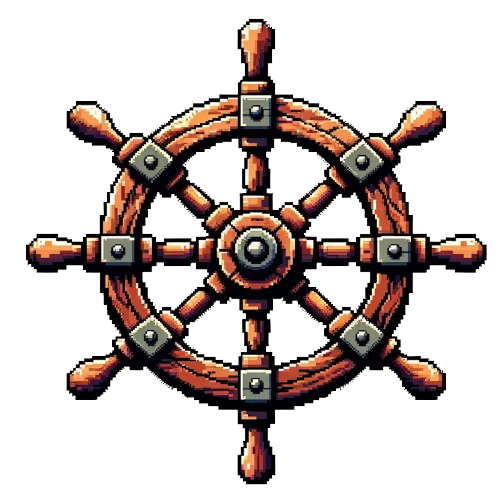
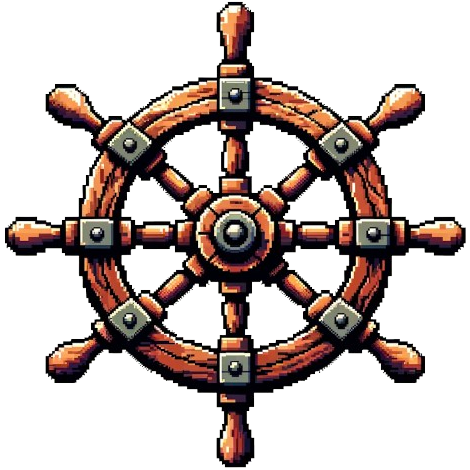
Large main menu UI update, viewport size updated

diff --git a/src/scene/MainMenuScene.ts b/src/scene/MainMenuScene.ts
@@ -42,30 +42,56 @@ export class MainMenuScene extends Phaser.Scene {
 
         //create images (z order)
         //this.add.image(this.game.renderer.width / 2, this.game.renderer.height * 0.20, CST.IMAGE.LOGO).setDepth(1);
-        this.add.image(0, 0, CST.IMAGE.TITLE).setOrigin(0).setDepth(0).setScale(0.55);
+        this.add.image(0, 0, CST.IMAGE.TITLE).setOrigin(0).setDepth(0).setScale(0.60); // 600 x 600
 
         graphics.fillStyle(0x000000, 1); // The '1' is the alpha for full opacity
         graphics.fillRect(0, 512, 512, 200); // Fill a rectangle from (0, 512) to (512, 612)
 
 
-        let playButton = this.add.image(470, 50, CST.IMAGE.PLAY).setDepth(1).setScale(0.4);
-        let optionsButton = this.add.image(470, 150, CST.IMAGE.OPTIONS).setDepth(1).setScale(0.4);
-        let quitButton = this.add.image(470, 250, CST.IMAGE.QUIT).setDepth(1).setScale(0.4);
-        let hoverImg = this.add.image(100, 100, CST.IMAGE.HOVER).setScale(0.15).setVisible(false);
+        let playButton = this.add.image(700, 50, CST.IMAGE.PLAY).setDepth(1).setScale(0.55);
+        let optionsButton = this.add.image(700, 150, CST.IMAGE.OPTIONS).setDepth(1).setScale(0.55);
+        let quitButton = this.add.image(700, 250, CST.IMAGE.QUIT).setDepth(1).setScale(0.55);
+        let hoverImg = this.add.image(100, 100, CST.IMAGE.HOVER).setScale(0.20).setVisible(false);
 
         //let board = this.add.image(180, 562, CST.IMAGE.BOARD).setDepth(1).setScale(0.8);
-        let EosRPG = this.add.image(256, 500, CST.IMAGE.EOSRPG_LOGO).setDepth(1).setScale(0.4);
-        let NTUAI_Button = this.add.image(90, 550, CST.IMAGE.NTUAI_LOGO).setDepth(1).setScale(0.25);
+        let EosRPG = this.add.image(80, 85, CST.IMAGE.EOSRPG_LOGO).setDepth(1).setScale(0.4);
+        let NTUAI_Button = this.add.image(100, 550, CST.IMAGE.NTUAI_LOGO).setDepth(1).setScale(0.25);
         //let FET_Button = this.add.image(300, 550, CST.IMAGE.FET_LOGO).setDepth(1).setScale(0.1);
-        let ATCC_Button = this.add.image(422, 550, CST.IMAGE.ATCC_LOGO).setDepth(1).setScale(0.25);
+        let ATCC_Button = this.add.image(300, 550, CST.IMAGE.ATCC_LOGO).setDepth(1).setScale(0.25);
+        let FET_Button = this.add.image(500, 550, CST.IMAGE.FET_LOGO).setDepth(1).setScale(0.16);
 
         this.tweens.add({
-            targets: EosRPG,
+            targets: NTUAI_Button,
+            y: '-=10', // Moves up by 20 pixels
+            ease: 'Sine.inOut', // Smooth transition for a natural floating effect
+            duration: 2000, // Duration of one rise/fall cycle
+            yoyo: true, // Automatically reverses the tween to create a up and down motion
+            repeat: -1 // Infinite loop
+        });
+
+        this.tweens.add({
+            targets: ATCC_Button,
+            y: '-=15', // Moves up by 20 pixels
+            ease: 'Sine.inOut', // Smooth transition for a natural floating effect
+            duration: 2000, // Duration of one rise/fall cycle
+            yoyo: true, // Automatically reverses the tween to create a up and down motion
+            repeat: -1 // Infinite loop
+        });
+
+        this.tweens.add({
+            targets: FET_Button,
             y: '-=20', // Moves up by 20 pixels
             ease: 'Sine.inOut', // Smooth transition for a natural floating effect
             duration: 2000, // Duration of one rise/fall cycle
             yoyo: true, // Automatically reverses the tween to create a up and down motion
             repeat: -1 // Infinite loop
+        });
+
+        this.tweens.add({
+            targets: hoverImg, //your image that must spin
+            rotation: 6.2831, //rotation value must be radian
+            duration: 4000, //duration is in milliseconds
+            repeat: -1
         });
     
 
@@ -87,7 +113,7 @@ export class MainMenuScene extends Phaser.Scene {
         playButton.on("pointerover", () => {
             playButton.setX(playButton.x-10);
             hoverImg.setVisible(true);
-            hoverImg.setX(playButton.x-80);
+            hoverImg.setX(playButton.x-140);
             hoverImg.setY(playButton.y);
             this.sound.add(CST.AUDIO.SELECT, {volume: 1}).play();
         })
@@ -105,13 +131,18 @@ export class MainMenuScene extends Phaser.Scene {
             this.toCEO();
         });
 
+        this.add.graphics().fillStyle(0x000000, 0.2).fillCircle(80, 87, 83);
+        this.add.graphics().lineStyle(5, 0x5C4033, 1).strokeRect(600, 0, 200, 600);
+        this.add.graphics().lineStyle(5, 0x5C4033, 1).strokeRect(0, 0, 600, 600);
+        this.add.graphics().lineStyle(5, 0x5C4033, 1).strokeRect(0, 600, 600, 200);
+
         // options button
         optionsButton.setInteractive();
 
         optionsButton.on("pointerover", () => {
             optionsButton.setX(optionsButton.x-10);
             hoverImg.setVisible(true);
-            hoverImg.setX(optionsButton.x-80);
+            hoverImg.setX(optionsButton.x-140);
             hoverImg.setY(optionsButton.y);
             this.sound.add(CST.AUDIO.SELECT, {volume: 1}).play();
         })
@@ -127,9 +158,9 @@ export class MainMenuScene extends Phaser.Scene {
             quitButton.setVisible(false);
             hoverImg.setVisible(false);     
             
-            // Show volume controls
+        // Show volume controls
 
-                    let track, knob;
+        let track, knob;
 
         // Create the slider track
         track = this.add.graphics()
@@ -175,7 +206,7 @@ export class MainMenuScene extends Phaser.Scene {
         quitButton.on("pointerover", () => {
             quitButton.setX(quitButton.x-10);
             hoverImg.setVisible(true);
-            hoverImg.setX(quitButton.x-80);
+            hoverImg.setX(quitButton.x-140);
             hoverImg.setY(quitButton.y);
             this.sound.add(CST.AUDIO.SELECT, {volume: 1}).play();
         })
@@ -222,6 +253,23 @@ export class MainMenuScene extends Phaser.Scene {
             window.open("https://atcc.co/21statcc/", "_blank");
         })
 
+
+
+         // FET button
+         FET_Button.setInteractive();
+
+         FET_Button.on("pointerover", () => {
+             FET_Button.setScale(0.19);
+             this.sound.add(CST.AUDIO.SELECT, {volume: 1}).play();
+         })
+ 
+         FET_Button.on("pointerout", () => {
+             FET_Button.setScale(0.16);
+         })
+ 
+         FET_Button.on("pointerup", () => {
+             window.open("https://www.fetnet.net/", "_blank");
+         })
 
     }
 }

diff --git a/src/scene/CEOScene.ts b/src/scene/CEOScene.ts
@@ -18,17 +18,6 @@ export class CEOScene extends Phaser.Scene {
   // keyboard
   private controls!: Controls;
   private cursors!: Phaser.Types.Input.Keyboard.CursorKeys; // move up, left, down, right
-  /*private one!: Phaser.Input.Keyboard.Key; // input 1
-  private two!: Phaser.Input.Keyboard.Key; // input 2
-  private three!: Phaser.Input.Keyboard.Key; // input 3
-  private four!: Phaser.Input.Keyboard.Key; // input 4
-  private w!: Phaser.Input.Keyboard.Key; // move up
-  private a!: Phaser.Input.Keyboard.Key; // move left
-  private s!: Phaser.Input.Keyboard.Key; // move down
-  private d!: Phaser.Input.Keyboard.Key; // move right
-  private spacebar!: Phaser.Input.Keyboard.Key; // chat / interact
-  private shift!: Phaser.Input.Keyboard.Key; // sprint
-  private esc!: Phaser.Input.Keyboard.Key; // return to main menu*/
   
   // character
   private player!: Phaser.Physics.Arcade.Sprite;
@@ -114,10 +103,11 @@ export class CEOScene extends Phaser.Scene {
   updateSpeechBubblePosition(): void {
     if (this.speechBubble) {
       // Adjust these offsets to position the speech bubble correctly relative to your player sprite
-      const offsetX = -200; // This is just an example, adjust as needed
-      const offsetY = -340; // This is just an example, adjust as needed
-      
-      this.speechBubble.setPosition(this.player.x + offsetX, this.player.y + offsetY);
+      //const offsetX = -200; // This is just an example, adjust as needed
+      //const offsetY = -340; // This is just an example, adjust as needed
+      console.log("x: " + this.player.x + ", y: " + this.player.y);
+
+      this.speechBubble.setPosition(this.player.x /* + offsetX*/, this.player.y /*+ offsetY*/);
     }
   }
 

diff --git a/src/main.ts b/src/main.ts
@@ -11,8 +11,8 @@ const gameConfig: Phaser.Types.Core.GameConfig = {
   pixelArt: true,
   scale: {
     parent: 'game-container',
-    width: 512,
-    height: 680,
+    width: 800,
+    height: 600,
   },
   backgroundColor: '#000000',
   scene: [LoadingScene, MainMenuScene,OptionsScene, CEOScene, HRScene],

diff --git a/src/CST.ts b/src/CST.ts
@@ -20,7 +20,7 @@ export const CST = {
         BOARD: "board.png",
         XP: "xp.png",
 
-        FET_LOGO: "FET_logo.png",
+        FET_LOGO: "FET_Logo.png",
         NTUAI_LOGO: "NTUAI_logo.png",
         EOSRPG_LOGO: "EosRPG_logo.png",
         ATCC_LOGO: "ATCC_logo.png",
